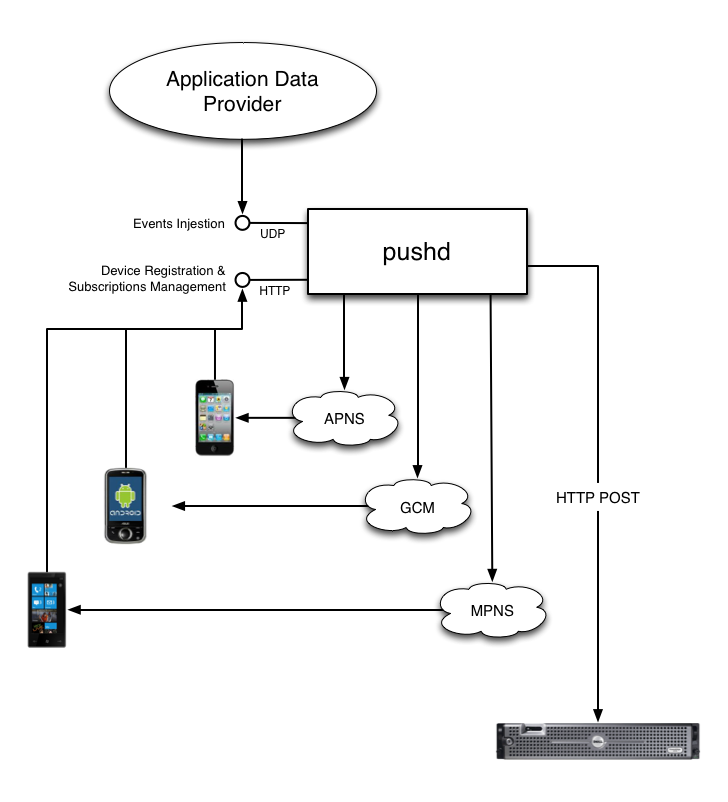
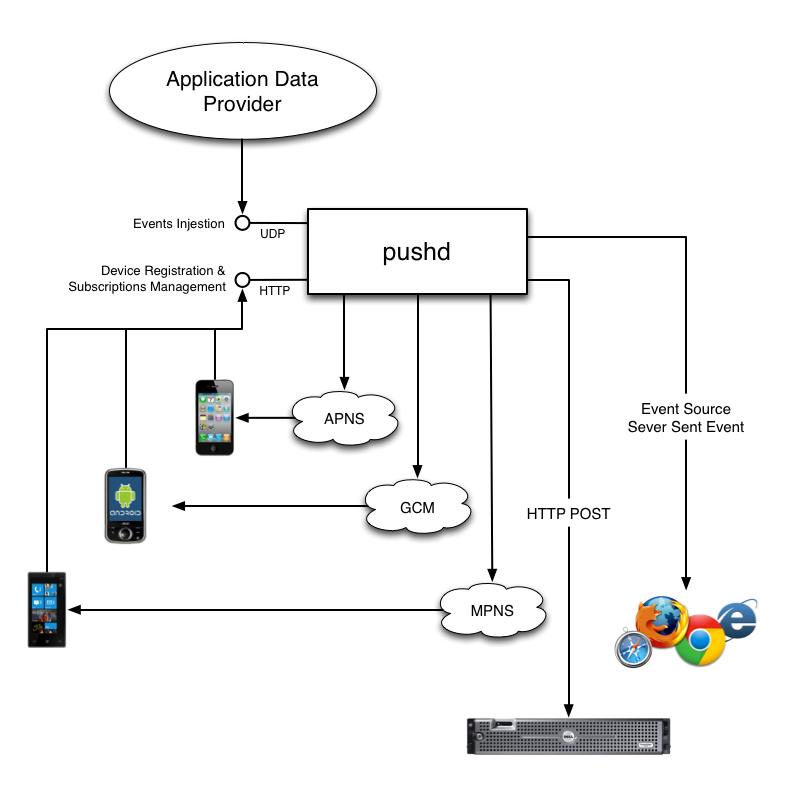
Add EventSource support

diff --git a/README.md b/README.md
@@ -8,7 +8,7 @@ Universal Mobile Push Daemon
 Features
 --------
 
-- Multi protocols [APNs] \(iOS), C2DM/[GCM] \(Android), [MPNS] \(Windows Phone), [HTTP] POST
+- Multi protocols [APNs] \(iOS), C2DM/[GCM] \(Android), [MPNS] \(Windows Phone), [HTTP] POST, [EventSource](#event-source)
 - Pluggable protocols
 - Register unlimited number of subscribers (device)
 - Subscribe to unlimited number of events
@@ -107,6 +107,35 @@ You don't need to create events before sending them. If nobody is subscribed to 
 Here we will send a message to all subscribers subscribed to the `sport` event:
 
     $ curl -d msg=Test%20message http://localhost/event/sport
+
+Event Source
+------------
+
+Pushd supports the [Event Source](http://www.w3.org/TR/eventsource/) protocol, also known as Server Sent Events. This allows your web application to benefits from the same pushed event than native apps.
+
+This protocol is very different from other pushd supported protocol because it doesn't involve subsriber registration nor stored subscription. The web service connects to the pushd server and declars which event it is interested for, and pushd will push subscribed events in this same connections until the client stays connected.
+
+You may want to use [Yaffle EventSource polyfill](https://github.com/Yaffle/EventSource) on the client side in order to support CORS requests with older browsers.
+
+When Event Source is enabled, a new `/subscribe` API endpoint is available. You'll have to POST an `events` parameter with a list of events separated by commas:
+
+    > POST /subscribe HTTP/1.1
+    > Content-Type: application/x-www-form-urlencoded
+    > Accept: text/event-stream
+    >
+    > events=event1,event2,event3
+    >
+    ---
+    < HTTP/1.1 200 OK
+    < Content-Type: text/event-stream
+    < Cache-Control: no-cache
+    < Access-Control-Allow-Origin: *
+    < Connection: close
+    <
+    ... some time passes ...
+    < data: {"name": "event1", "title": {"default": "Title", "fr": "Titre"}, "message": {...}, "data": {"var1": "val1", "var2": "val2"}}
+    ... some time passes ...
+    < data: {"name": "event2", "title": {"default": "Title", "fr": "Titre"}, "message": {...}, "data": {"var1": "val1", "var2": "val2"}}
 
 API
 ---
